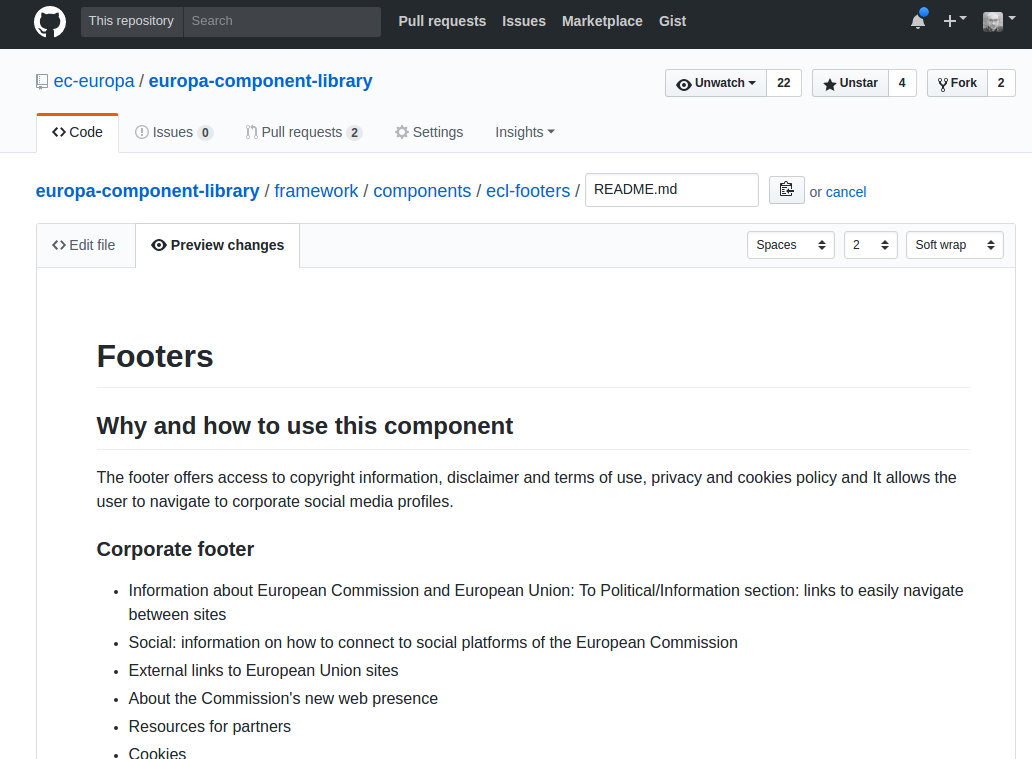
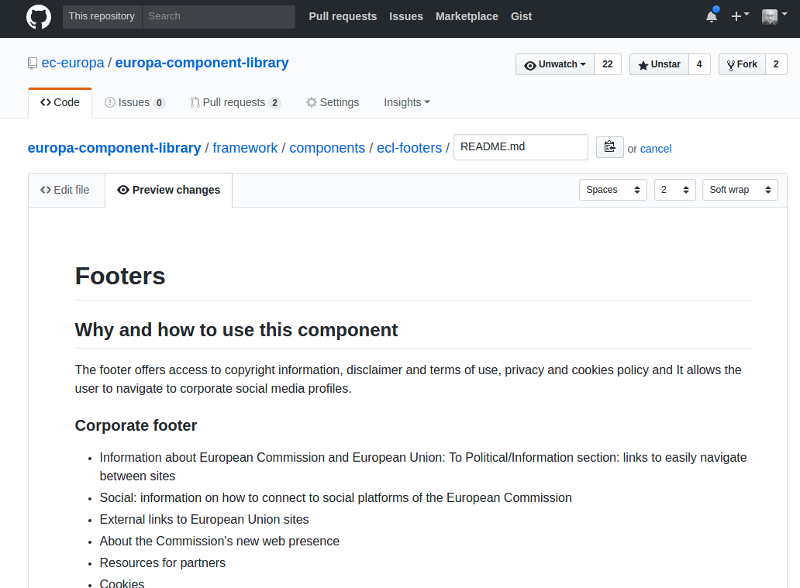
docs(edit): update

diff --git a/docs/04-documentation.md b/docs/04-documentation.md
@@ -16,7 +16,7 @@ You also have to be part of team [ECL doc editors](https://github.com/orgs/ec-eu
 - Locate the component you wish to edit. Components are located in `framework/components`
 - Open the README.md file in that component (example: `framework/components/ecl-footers/README.md`)
 
-<img src="/assets/screenshots/git_edit.png" alt="GitHub edit" width="800" />
+![GitHub edit]({{ path '/assets/screenshots/git_edit.png' }})
 
 ## Step 2: Edit the documentation
 
@@ -24,7 +24,7 @@ You also have to be part of team [ECL doc editors](https://github.com/orgs/ec-eu
 - Make any modification you wish by using markdown editor. Here is a [cheatsheet for markdown syntax](https://guides.github.com/features/mastering-markdown/)
 - You can see result directly by switching to the "Preview" tab
 
-<img src="/assets/screenshots/git_preview.png" alt="GitHub preview" width="800" />
+![GitHub preview]({{ path '/assets/screenshots/git_preview.png' }})
 
 ## Step 3: Send your modifications
 
